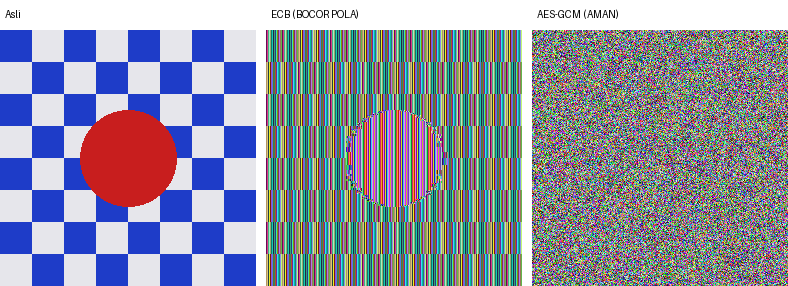
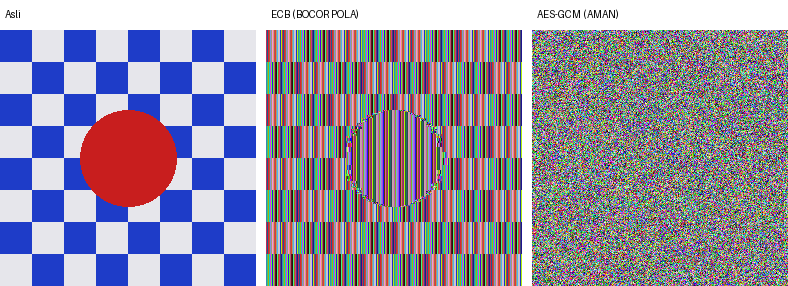
feat: tambah fitur upload-dekripsi ulang citra terenkripsi (metadata PNG)

diff --git a/app.py b/app.py
@@ -13,6 +13,7 @@ import os
 import tempfile
 import base64
 from PIL import Image
+from PIL.PngImagePlugin import PngInfo
 import io
 
 # Import fungsi backend dari crypto_utils.py (logika tidak diubah sama sekali)
@@ -31,7 +32,10 @@ from image_encryption_demo import (
     buat_citra_demo,
     enkripsi_ecb,
     enkripsi_gcm,
-    bytes_ke_citra
+    dekripsi_ecb,
+    dekripsi_gcm,
+    bytes_ke_citra,
+    buat_gambar_perbandingan
 )
 
 # -----------------------------------------------------------------------------
@@ -716,6 +720,56 @@ with st.sidebar:
     """, unsafe_allow_html=True)
 
 # -----------------------------------------------------------------------------
+# 5B. HELPER FUNCTION: KONVERSI GAMBAR PIL KE BYTES PNG (UNTUK DOWNLOAD)
+# -----------------------------------------------------------------------------
+def gambar_ke_png_bytes(citra: Image.Image) -> bytes:
+    """Konversi objek PIL Image menjadi bytes PNG siap diunduh lewat st.download_button."""
+    buf = io.BytesIO()
+    citra.save(buf, format="PNG")
+    return buf.getvalue()
+
+
+def gambar_ke_png_bytes_dengan_metadata(citra: Image.Image, metadata: dict) -> bytes:
+    """
+    Sama seperti gambar_ke_png_bytes(), TAPI menyisipkan metadata teks
+    (mode, salt, nonce, ciphertext lengkap, dimensi asli) ke dalam chunk
+    tEXt PNG memakai PngInfo. Metadata ini TIDAK terlihat dan TIDAK
+    mengubah tampilan visual gambar sama sekali -- cuma "menempel" di
+    dalam file, supaya file PNG yang sama bisa diupload lagi nanti dan
+    didekripsi balik jadi citra asli, tanpa perlu simpan ciphertext
+    terpisah di tempat lain.
+
+    Kenapa perlu ciphertext LENGKAP disimpan sebagai teks base64, bukan
+    dari piksel gambarnya langsung? Karena piksel gambar (untuk ECB) bisa
+    kepotong akibat padding, dan (untuk GCM) tidak menyertakan 16-byte
+    authentication tag -- jadi piksel gambar SAJA tidak cukup untuk
+    dekripsi yang benar.
+    """
+    info = PngInfo()
+    for key, value in metadata.items():
+        info.add_text(f"cv_{key}", str(value))
+
+    buf = io.BytesIO()
+    citra.save(buf, format="PNG", pnginfo=info)
+    return buf.getvalue()
+
+
+def baca_metadata_png(citra: Image.Image) -> dict:
+    """
+    Ambil kembali metadata cv_* yang disisipkan oleh
+    gambar_ke_png_bytes_dengan_metadata(), dari file PNG yang diupload user.
+    Return dict kosong kalau tidak ada metadata sama sekali (berarti file
+    ini bukan hasil download dari demo ECB/GCM di aplikasi ini).
+    """
+    citra.load()  # pastikan semua chunk PNG (termasuk tEXt) sudah kebaca
+    hasil = {}
+    for key, value in citra.info.items():
+        if key.startswith("cv_"):
+            hasil[key[3:]] = value
+    return hasil
+
+
+# -----------------------------------------------------------------------------
 # 5. HELPER FUNCTION: PANEL DETAIL TEKNIS (EXPANDER INTERAKTIF)
 # -----------------------------------------------------------------------------
 def render_technical_panel(algo_name, process_time_ms, input_size_bytes, output_size_bytes, mode="text"):
@@ -1235,8 +1289,8 @@ elif selected_menu == "🖼 Demo Keamanan: ECB vs Mode Aman":
                     data_piksel = citra_asli.tobytes()
 
                     start_t = time.perf_counter()
-                    ciphertext_ecb, _ = enkripsi_ecb(data_piksel, demo_pass)
-                    _, ciphertext_gcm_murni, _, _ = enkripsi_gcm(data_piksel, demo_pass)
+                    ciphertext_ecb, salt_ecb = enkripsi_ecb(data_piksel, demo_pass)
+                    ciphertext_gcm_full, ciphertext_gcm_murni, nonce_gcm, salt_gcm = enkripsi_gcm(data_piksel, demo_pass)
                     end_t = time.perf_counter()
 
                     img_ecb = bytes_ke_citra(ciphertext_ecb, citra_asli.size, mode="RGB")
@@ -1249,16 +1303,63 @@ elif selected_menu == "🖼 Demo Keamanan: ECB vs Mode Aman":
                     st.markdown("#### 1. Citra Asli (Original)")
                     st.image(citra_asli, use_container_width=True)
                     st.caption("Pola citra bitmap dengan area warna berulang/solid.")
+                    st.download_button(
+                        label="⬇ Unduh Citra Asli (.png)",
+                        data=gambar_ke_png_bytes(citra_asli),
+                        file_name="1_original.png",
+                        mime="image/png",
+                        key="dl_img_asli"
+                    )
 
                 with col2:
                     st.markdown("#### 2. Hasil ECB (BOCOR POLA)")
                     st.image(img_ecb, use_container_width=True)
                     st.caption("🔴 **VULNERABLE:** Pola asli MASIH TERLIHAT! Blok plaintext identik selalu menghasilkan ciphertext identik.")
+                    st.download_button(
+                        label="⬇ Unduh Hasil ECB (.png) — bisa didekripsi ulang",
+                        data=gambar_ke_png_bytes_dengan_metadata(img_ecb, {
+                            "mode": "ecb",
+                            "salt": base64.b64encode(salt_ecb).decode(),
+                            "ciphertext": base64.b64encode(ciphertext_ecb).decode(),
+                            "width": citra_asli.width,
+                            "height": citra_asli.height,
+                        }),
+                        file_name="2_encrypted_ecb.png",
+                        mime="image/png",
+                        key="dl_img_ecb"
+                    )
 
                 with col3:
                     st.markdown("#### 3. Hasil AES-GCM (AMAN)")
                     st.image(img_gcm, use_container_width=True)
                     st.caption("🟢 **SECURE:** Noise acak sempurna! Keystream unik per-blok dari Counter Mode menghilangkan seluruh korelasi visual.")
+                    st.download_button(
+                        label="⬇ Unduh Hasil AES-GCM (.png) — bisa didekripsi ulang",
+                        data=gambar_ke_png_bytes_dengan_metadata(img_gcm, {
+                            "mode": "gcm",
+                            "salt": base64.b64encode(salt_gcm).decode(),
+                            "nonce": base64.b64encode(nonce_gcm).decode(),
+                            "ciphertext": base64.b64encode(ciphertext_gcm_full).decode(),
+                            "width": citra_asli.width,
+                            "height": citra_asli.height,
+                        }),
+                        file_name="3_encrypted_gcm.png",
+                        mime="image/png",
+                        key="dl_img_gcm"
+                    )
+
+                # Gambar gabungan (Asli | ECB | AES-GCM) berdampingan -- siap tempel ke laporan
+                gambar_gabungan = buat_gambar_perbandingan(
+                    [citra_asli, img_ecb, img_gcm],
+                    ["Asli", "ECB (BOCOR POLA)", "AES-GCM (AMAN)"],
+                )
+                st.download_button(
+                    label="⬇ Unduh Gambar Perbandingan Gabungan (untuk laporan)",
+                    data=gambar_ke_png_bytes(gambar_gabungan),
+                    file_name="4_perbandingan.png",
+                    mime="image/png",
+                    key="dl_img_gabungan"
+                )
 
                 st.divider()
 
@@ -1278,6 +1379,89 @@ elif selected_menu == "🖼 Demo Keamanan: ECB vs Mode Aman":
 
             except Exception as e:
                 st.error(f"❌ Gagal menjalankan demo keamanan: {str(e)}")
+
+    st.divider()
+
+    # -------------------------------------------------------------------
+    # UPLOAD & DEKRIPSI ULANG CITRA TERENKRIPSI
+    # -------------------------------------------------------------------
+    st.markdown("### 🔓 Upload & Dekripsi Ulang Citra Terenkripsi")
+    st.caption(
+        "Upload file PNG hasil download dari demo di atas (yang labelnya "
+        "'bisa didekripsi ulang'), masukkan password yang sama, dan citra "
+        "asli akan dikembalikan. Metadata (salt/nonce/ciphertext lengkap) "
+        "sudah menempel otomatis di dalam file PNG itu sendiri."
+    )
+
+    col_up2, col_pass2 = st.columns([2, 1])
+    with col_up2:
+        uploaded_enc_img = st.file_uploader(
+            "Upload PNG hasil enkripsi (dari tombol download ECB/GCM di atas):",
+            type=["png"],
+            key="upload_dekripsi_img"
+        )
+    with col_pass2:
+        pass_dekripsi_img = st.text_input(
+            "Password Dekripsi:",
+            type="password",
+            placeholder="Masukkan password yang sama saat enkripsi...",
+            key="pass_dekripsi_img_input"
+        )
+
+    if st.button("🔓 Dekripsi Citra yang Diupload", key="btn_dekripsi_upload_img"):
+        if uploaded_enc_img is None:
+            st.warning("⚠ Harap upload file PNG hasil enkripsi terlebih dahulu!")
+        elif not pass_dekripsi_img:
+            st.warning("⚠ Harap masukkan password dekripsi!")
+        else:
+            try:
+                citra_upload = Image.open(uploaded_enc_img)
+                meta = baca_metadata_png(citra_upload)
+
+                if not meta or "mode" not in meta or "ciphertext" not in meta:
+                    st.error(
+                        "🛑 File ini tidak memiliki metadata enkripsi. Pastikan kamu "
+                        "upload file PNG yang didownload dari tombol 'bisa didekripsi "
+                        "ulang' di atas, bukan file gambar biasa."
+                    )
+                else:
+                    mode_meta = meta["mode"]
+                    salt_meta = base64.b64decode(meta["salt"])
+                    ciphertext_meta = base64.b64decode(meta["ciphertext"])
+                    ukuran_asli = (int(meta["width"]), int(meta["height"]))
+
+                    with st.spinner("Mendekripsi citra..."):
+                        start_dt = time.perf_counter()
+                        if mode_meta == "ecb":
+                            data_asli = dekripsi_ecb(ciphertext_meta, pass_dekripsi_img, salt_meta)
+                        elif mode_meta == "gcm":
+                            nonce_meta = base64.b64decode(meta["nonce"])
+                            data_asli = dekripsi_gcm(ciphertext_meta, pass_dekripsi_img, salt_meta, nonce_meta)
+                        else:
+                            raise ValueError(f"Mode metadata tidak dikenal: {mode_meta}")
+                        end_dt = time.perf_counter()
+
+                        citra_hasil_dekripsi = bytes_ke_citra(data_asli, ukuran_asli, mode="RGB")
+
+                    st.success(
+                        f"✅ Dekripsi berhasil dalam {(end_dt - start_dt)*1000:.2f} ms! "
+                        f"Mode terdeteksi: **{mode_meta.upper()}**."
+                    )
+                    st.image(citra_hasil_dekripsi, caption="Citra hasil dekripsi (dikembalikan ke bentuk asli)", use_container_width=False, width=300)
+                    st.download_button(
+                        label="⬇ Unduh Citra Hasil Dekripsi (.png)",
+                        data=gambar_ke_png_bytes(citra_hasil_dekripsi),
+                        file_name="hasil_dekripsi.png",
+                        mime="image/png",
+                        key="dl_hasil_dekripsi_upload"
+                    )
+
+            except Exception as e:
+                st.error(
+                    "🛑 Dekripsi gagal! Kemungkinan besar password salah, atau file "
+                    "PNG sudah diubah/rusak (verifikasi gagal). "
+                    f"Detail teknis: {str(e)}"
+                )
 
 # -----------------------------------------------------------------------------
 # 10. MODUL 5: TENTANG APLIKASI & DOKUMENTASI KRIPTOGRAFI

diff --git a/image_encryption_demo.py b/image_encryption_demo.py
@@ -111,8 +111,7 @@ def enkripsi_ecb(data: bytes, password: str) -> tuple[bytes, bytes]:
     memakai AEAD: AES-256-GCM / ChaCha20-Poly1305).
 
     Return: (ciphertext, salt) -- salt perlu disimpan untuk penurunan
-    ulang kunci saat dekripsi (tidak dipakai lebih lanjut di demo ini
-    karena tujuannya hanya visualisasi).
+    ulang kunci saat dekripsi.
     """
     key, salt = derive_key(password)  # reuse derive_key dari crypto_utils.py
 
@@ -125,6 +124,24 @@ def enkripsi_ecb(data: bytes, password: str) -> tuple[bytes, bytes]:
     ciphertext = encryptor.update(data_padded) + encryptor.finalize()
 
     return ciphertext, salt
+
+
+def dekripsi_ecb(ciphertext: bytes, password: str, salt: bytes) -> bytes:
+    """
+    Dekripsi balik hasil enkripsi ECB, untuk membuktikan bahwa walau ECB
+    membocorkan pola secara visual, ia tetap bisa dikembalikan sempurna
+    ke plaintext asli dengan password & salt yang benar. Ini menegaskan
+    bahwa masalah ECB BUKAN soal gagal dekripsi, melainkan soal
+    kebocoran informasi SELAMA data masih dalam bentuk terenkripsi.
+    """
+    key, _ = derive_key(password, salt)
+    cipher = Cipher(algorithms.AES(key), modes.ECB())
+    decryptor = cipher.decryptor()
+    data_padded = decryptor.update(ciphertext) + decryptor.finalize()
+
+    unpadder = padding.PKCS7(BLOCK_SIZE * 8).unpadder()
+    data_asli = unpadder.update(data_padded) + unpadder.finalize()
+    return data_asli
 
 
 # =============================================================================
@@ -150,6 +167,19 @@ def enkripsi_gcm(data: bytes, password: str) -> tuple[bytes, bytes, bytes, bytes
     ciphertext_murni = ciphertext_dengan_tag[:-16]
 
     return ciphertext_dengan_tag, ciphertext_murni, nonce, salt
+
+
+def dekripsi_gcm(ciphertext_dengan_tag: bytes, password: str, salt: bytes, nonce: bytes) -> bytes:
+    """
+    Dekripsi balik hasil enkripsi AES-GCM. Berbeda dengan ECB, proses ini
+    juga otomatis memverifikasi authentication tag -- kalau ciphertext
+    diubah sedikit saja, proses ini akan gagal (raise exception),
+    membuktikan AES-GCM juga menjaga INTEGRITAS data, bukan cuma kerahasiaan.
+    """
+    key, _ = derive_key(password, salt)
+    aesgcm = AESGCM(key)
+    data_asli = aesgcm.decrypt(nonce, ciphertext_dengan_tag, None)
+    return data_asli
 
 
 # =============================================================================
@@ -223,7 +253,7 @@ def main():
     data_piksel = citra_asli.tobytes()  # byte mentah RGB, ini yang dienkripsi
 
     # 2. Enkripsi ECB
-    ciphertext_ecb, _ = enkripsi_ecb(data_piksel, password)
+    ciphertext_ecb, salt_ecb = enkripsi_ecb(data_piksel, password)
     citra_ecb = bytes_ke_citra(ciphertext_ecb, citra_asli.size, mode="RGB")
     path_ecb = os.path.join(OUTPUT_DIR, "2_encrypted_ecb.png")
     citra_ecb.save(path_ecb)
@@ -231,7 +261,7 @@ def main():
     print("    -> Perhatikan: pola kotak & lingkaran ASLI MASIH TERLIHAT!")
 
     # 3. Enkripsi AES-GCM
-    _, ciphertext_gcm_murni, _, _ = enkripsi_gcm(data_piksel, password)
+    ciphertext_gcm_full, ciphertext_gcm_murni, nonce_gcm, salt_gcm = enkripsi_gcm(data_piksel, password)
     citra_gcm = bytes_ke_citra(ciphertext_gcm_murni, citra_asli.size, mode="RGB")
     path_gcm = os.path.join(OUTPUT_DIR, "3_encrypted_gcm.png")
     citra_gcm.save(path_gcm)
@@ -246,6 +276,25 @@ def main():
     path_gabungan = os.path.join(OUTPUT_DIR, "4_perbandingan.png")
     gabungan.save(path_gabungan)
     print(f"[4] Gambar perbandingan (untuk laporan) disimpan: {path_gabungan}")
+
+    # 5. BUKTIKAN KEDUANYA BISA DIDEKRIPSI BALIK DENGAN PASSWORD YANG BENAR
+    print("\n" + "=" * 70)
+    print("PEMBUKTIAN: DEKRIPSI BALIK KE DATA ASLI")
+    print("=" * 70)
+
+    hasil_dekripsi_ecb = dekripsi_ecb(ciphertext_ecb, password, salt_ecb)
+    cocok_ecb = hasil_dekripsi_ecb == data_piksel
+    print(f"[ECB]     Dekripsi balik berhasil dan identik dengan asli? {cocok_ecb}")
+
+    hasil_dekripsi_gcm = dekripsi_gcm(ciphertext_gcm_full, password, salt_gcm, nonce_gcm)
+    cocok_gcm = hasil_dekripsi_gcm == data_piksel
+    print(f"[AES-GCM] Dekripsi balik berhasil dan identik dengan asli? {cocok_gcm}")
+
+    print("\nKESIMPULAN TAMBAHAN:")
+    print("- Kedua mode BISA dikembalikan sempurna ke data asli dengan")
+    print("  password yang benar. Ini membuktikan masalah ECB BUKAN soal")
+    print("  gagal dekripsi, melainkan BOCORNYA POLA selama data masih")
+    print("  dalam bentuk terenkripsi (lihat 2_encrypted_ecb.png).")
 
     print("\nKESIMPULAN:")
     print("- ECB mengenkripsi tiap blok 16-byte secara independen dengan kunci")
